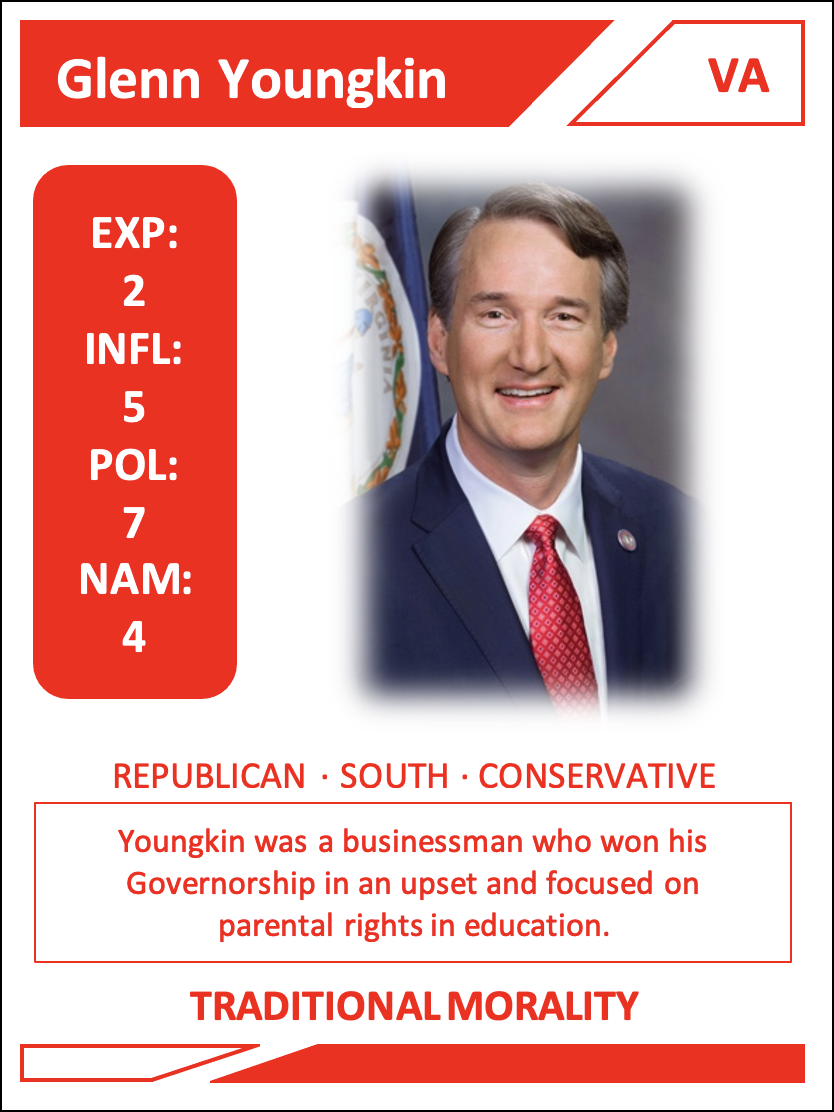
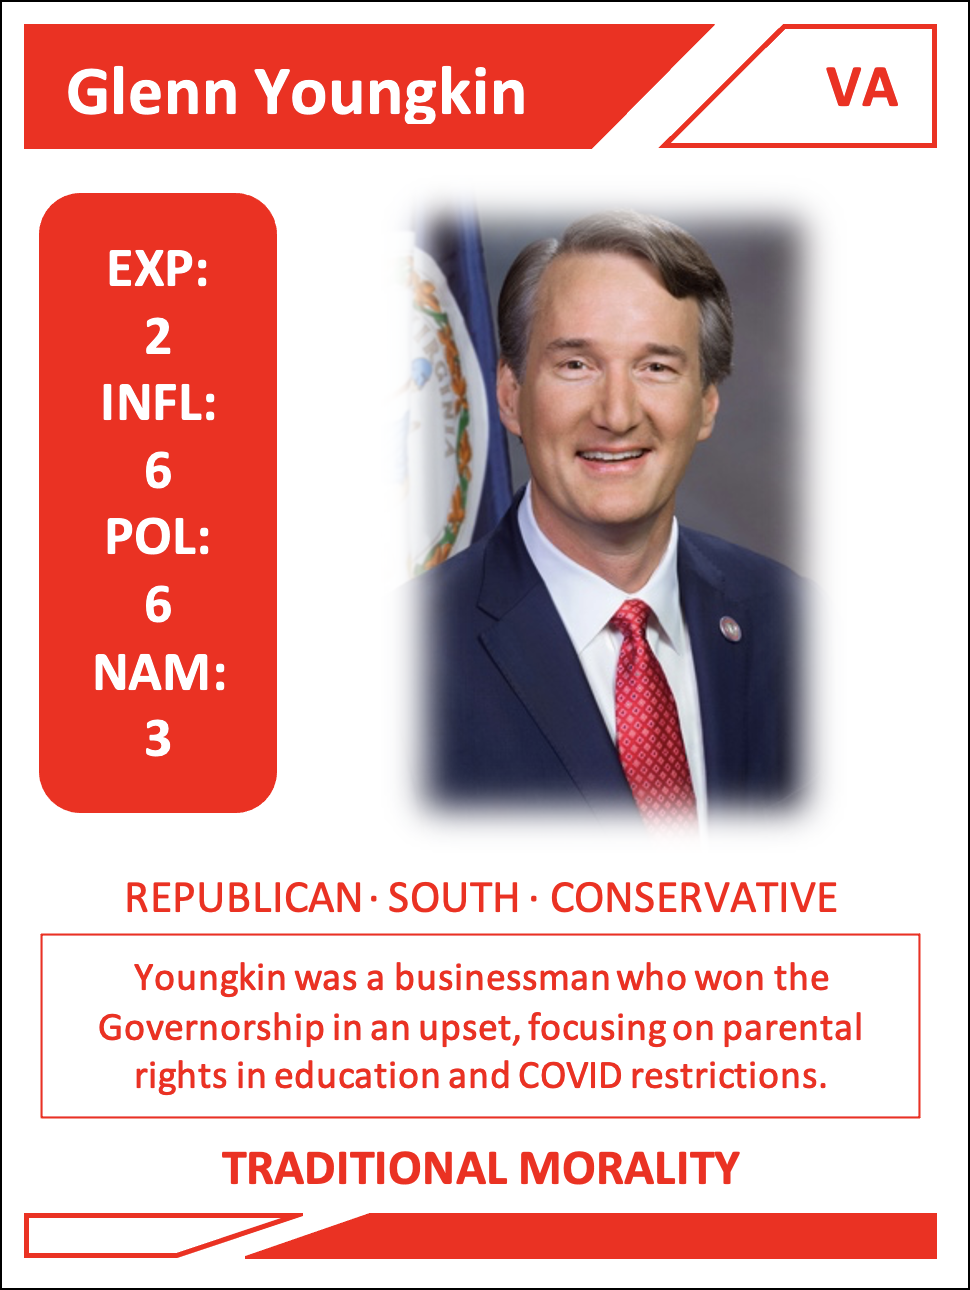
meggy mac 3/11 8:16

diff --git a/Election Game/src/main/java/org/cis120/electiongame/CardData.java b/Election Game/src/main/java/org/cis120/electiongame/CardData.java
@@ -1336,7 +1336,7 @@ public class CardData {
             new String[]{"Present Era"}
     );
     static President glennYoungkin = new President(
-            "Glenn Youngkin", "South", 2, 5, 7, 4, "Conservative", "Traditional Morality",
+            "Glenn Youngkin", "South", 2, 6, 6, 3, "Conservative", "Traditional Morality",
             new String[]{"Present Era"}
     );
     static President gretchenWhitmer = new President(
